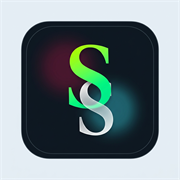
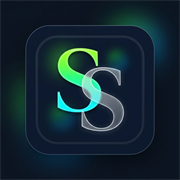
Full Website Project version

diff --git a/app-v3-ui.js b/app-v3-ui.js
@@ -1542,8 +1542,32 @@ export function createAppUi(context) {
 
   function getSpotifyPreviewMarket() { const locale = (Array.isArray(navigator.languages) && navigator.languages[0]) || navigator.language || navigator.userLanguage || ""; const match = `${locale}`.trim().match(/[-_]([A-Za-z]{2})$/); return match ? match[1].toUpperCase() : "US"; }
 
+  function resolveYouTubePreviewExternalId(source) {
+    const directId = typeof source?.externalId === "string" ? source.externalId.trim() : "";
+    if (/^[a-zA-Z0-9_-]{11}$/.test(directId)) return directId;
+
+    const values = [
+      source?.externalUrl,
+      source?.embedUrl,
+      source?.originalUrl,
+      source?.mediaUrl,
+      source?.src,
+      source?.label,
+      source?.title,
+    ];
+
+    for (const value of values) {
+      if (typeof value !== "string" || !value.trim()) continue;
+      const parsed = parseYouTubeUrl(value);
+      const parsedId = typeof parsed?.externalId === "string" ? parsed.externalId.trim() : "";
+      if (/^[a-zA-Z0-9_-]{11}$/.test(parsedId)) return parsedId;
+    }
+
+    return "";
+  }
+
   function resolveYouTubePreviewCandidates(source) {
-    const externalId = source.externalId || parseYouTubeUrl(source.externalUrl || source.embedUrl || source.originalUrl || source.label || "")?.externalId || "";
+    const externalId = resolveYouTubePreviewExternalId(source);
     if (!externalId) return [];
     return [
       `https://i.ytimg.com/vi/${externalId}/maxresdefault.jpg`,
@@ -1555,8 +1579,10 @@ export function createAppUi(context) {
   }
 
   async function getYouTubePreviewMetadata(source) {
-    const sourceUrl = resolveYouTubePreviewSourceUrl(source); if (!sourceUrl) return null;
-    const cacheKey = `youtube:oembed:${sourceUrl}`; const cached = externalPreviewCache.get(cacheKey); if (cached && !(cached instanceof Promise)) return cached; if (cached instanceof Promise) return cached;
+    if (window.NativeBridge && typeof window.NativeBridge === "object") return null;
+    const externalId = resolveYouTubePreviewExternalId(source); if (!externalId) return null;
+    const sourceUrl = `https://www.youtube.com/watch?v=${externalId}`;
+    const cacheKey = `youtube:oembed:${externalId}`; const cached = externalPreviewCache.get(cacheKey); if (cached && !(cached instanceof Promise)) return cached; if (cached instanceof Promise) return cached;
     const request = fetch(`https://www.youtube.com/oembed?url=${encodeURIComponent(sourceUrl)}&format=json`).then((res) => (res.ok ? res.json() : null)).then((payload) => {
       if (!payload || (!payload.title && !payload.thumbnail_url)) return null;
       const metadata = {
@@ -1574,10 +1600,8 @@ export function createAppUi(context) {
   }
 
   function resolveYouTubePreviewSourceUrl(source) {
-    const externalId = source.externalId || parseYouTubeUrl(source.externalUrl || source.embedUrl || source.originalUrl || source.label || "")?.externalId || "";
+    const externalId = resolveYouTubePreviewExternalId(source);
     if (externalId) return `https://www.youtube.com/watch?v=${externalId}`;
-    if (source.externalUrl) return source.externalUrl;
-    if (source.originalUrl) return source.originalUrl;
     return "";
   }
 

diff --git a/index.html b/index.html
@@ -14,8 +14,8 @@
     <meta name="apple-mobile-web-app-status-bar-style" content="black-translucent" />
     <meta name="apple-mobile-web-app-title" content="Signal Share" />
     <link rel="manifest" href="./site.webmanifest" />
-    <link rel="icon" href="./icons/icon.svg?v=4" type="image/svg+xml" />
-    <link rel="apple-touch-icon" href="./icons/apple-touch-icon-180.png?v=4" />
+    <link rel="icon" href="./icons/icon.svg?v=5" type="image/svg+xml" />
+    <link rel="apple-touch-icon" href="./icons/apple-touch-icon-180.png?v=5" />
     <link rel="preconnect" href="https://fonts.googleapis.com" />
     <link rel="preconnect" href="https://fonts.gstatic.com" crossorigin />
     <link
@@ -1281,8 +1281,9 @@
     </section>
 
     <script src="messenger-realtime.js?v=80"></script>
-    <script type="module" src="app-v3.js?v=104"></script>
+    <script type="module" src="app-v3.js?v=105"></script>
 
   </body>
 </html>
+
 

diff --git a/styles-1.css b/styles-1.css
@@ -897,14 +897,14 @@ select {
   display: grid;
   place-items: center;
   font-family: "Instrument Serif", serif;
-  font-size: 2.6rem;
+  font-size: 2.5rem;
   line-height: 1;
   letter-spacing: -0.08em;
   pointer-events: none;
 }
 
 .brand-glyph-back {
-  transform: translate(-14px, -18px);
+  transform: translate(-4px, -5px);
   background: linear-gradient(135deg, var(--accent), var(--accent-2));
   -webkit-background-clip: text;
   background-clip: text;
@@ -914,7 +914,7 @@ select {
 
 .brand-glyph-front {
   z-index: 1;
-  transform: translate(14px, 18px);
+  transform: translate(5px, 5px);
   color: transparent;
   -webkit-text-stroke: 1.35px rgba(246, 239, 227, 0.72);
   opacity: 0.95;
@@ -1912,5 +1912,8 @@ body[data-theme="contrast"] .hero-player-preview-overlay {
   padding: 14px;
   border-radius: calc(var(--radius-md) + 4px);
   background:
+
+
+
 
 

diff --git a/app-v3.js b/app-v3.js
@@ -1,5 +1,5 @@
 import { createSupabaseClient, loadPostsFromSupabase, loadLikedPostsFromSupabase, publishPostToSupabase, compressImageFile, uploadFileToSupabase, uploadMessageAttachment, deleteHostedPost, normalizeSupabasePost, parseYouTubeUrl, openDatabase, loadPostsFromDatabase, savePostToDatabase, deletePostFromDatabase, setApiContext } from './api-v3.js?v=92';
-import { createAppUi } from './app-v3-ui.js?v=103';
+import { createAppUi } from './app-v3-ui.js?v=104';
 
 
 
